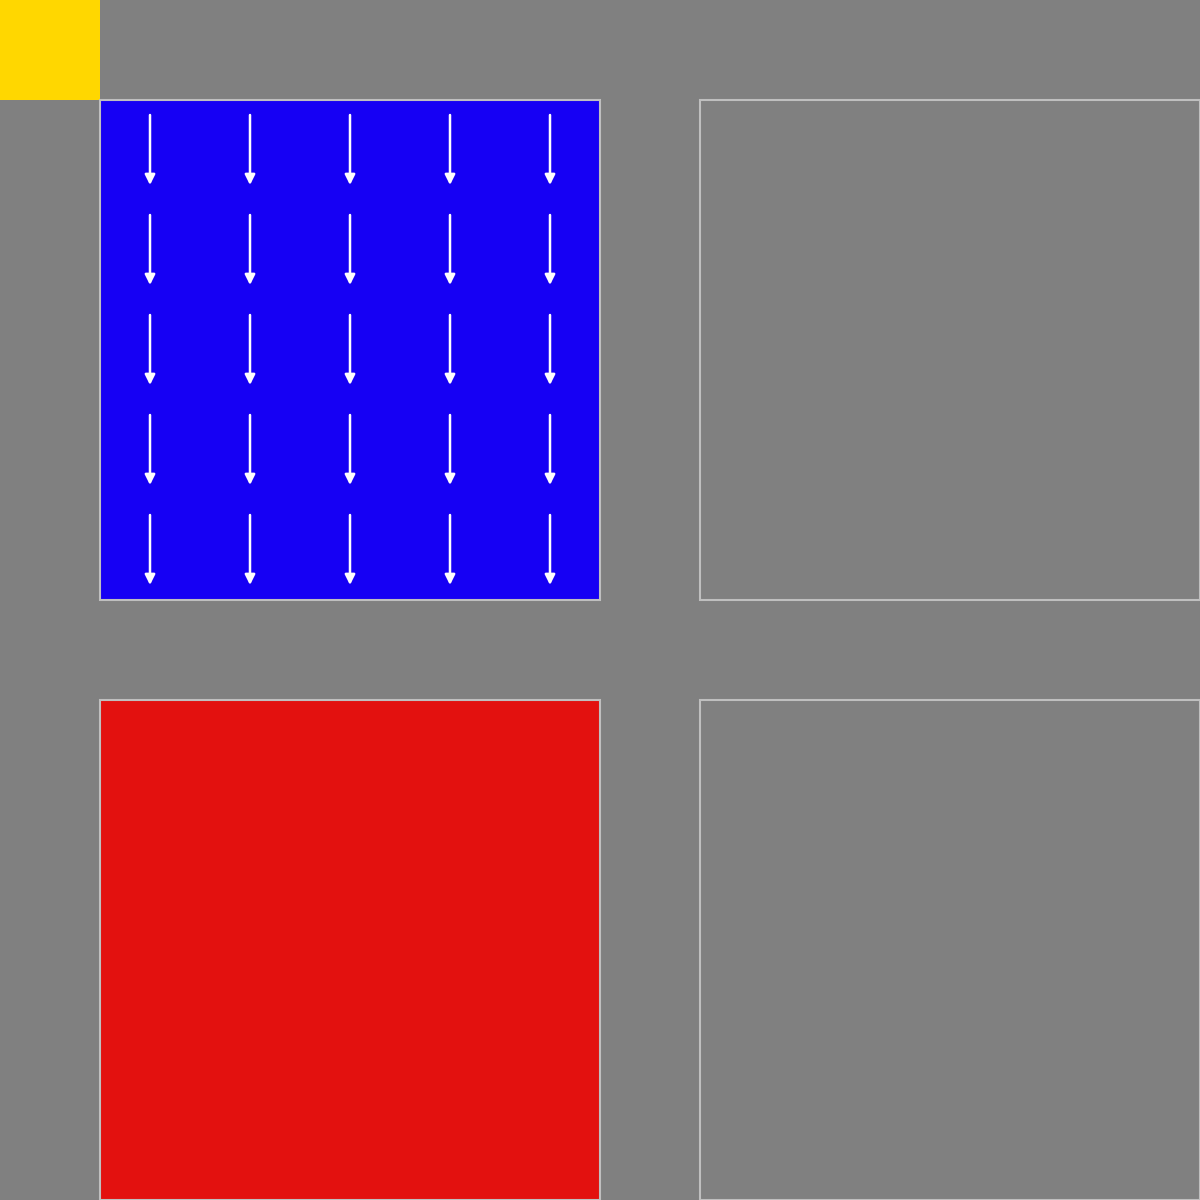
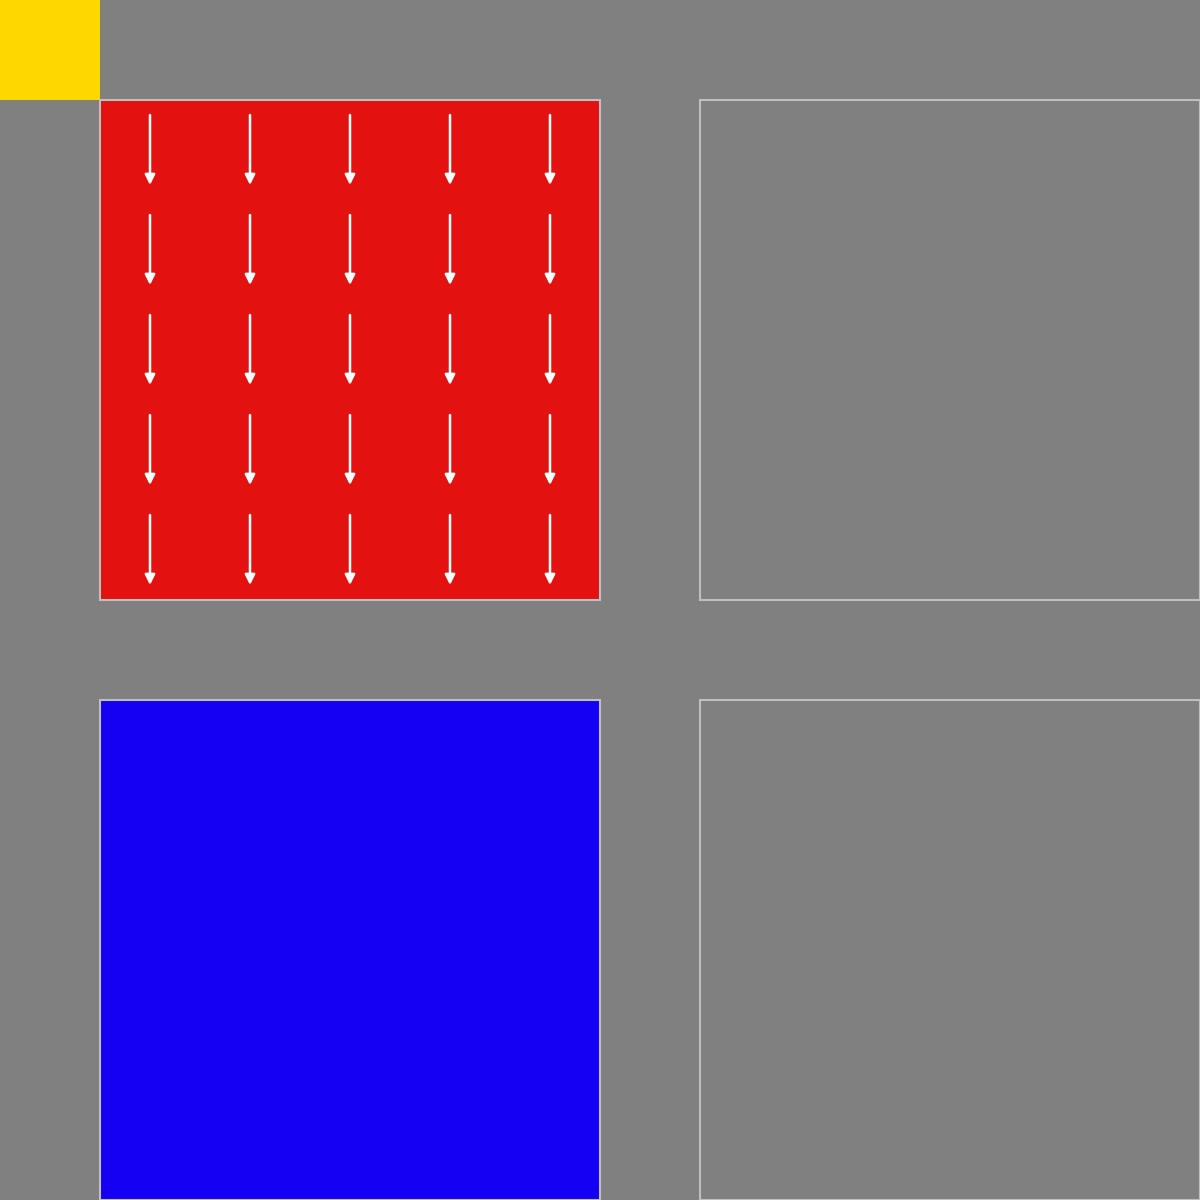
slides: E5 shuffle layouts, UD rouge / CD bleue

diff --git a/slides/out_e5_layouts/plot_e5_layouts.py b/slides/out_e5_layouts/plot_e5_layouts.py
@@ -21,6 +21,8 @@ cfg = setup.load_config(REPO / "configs/e4/e4.yaml")
 conf = setup.configuration(cfg, CONFIG)
 R, C = two_zones.GRID_SHAPE
 k, gl = cfg["render"]["k"], cfg["render"]["grid_lines"]
+# slide convention: colours swapped vs E5 (UD red, CD blue); dynamics untouched
+conf = {**conf, "t_inc": conf["t_ctrl"], "t_ctrl": conf["t_inc"]}
 canon = es.canonical_assignment(conf["diagonal"])
 rows = []
 
@@ -74,7 +76,7 @@ Script: `slides/out_e5_layouts/plot_e5_layouts.py`.
 """ + "\n".join(rows) + f"""
 
 - Canonical (E4 and probes): index {canon} (UD={es.ASSIGNMENTS[canon][0]}, CD={es.ASSIGNMENTS[canon][1]}).
-- RGB: T_inc / UD = {conf['t_inc']}, T_ctrl / CD = {conf['t_ctrl']}, neutral/corridor = {col[[q for q in es.QUADRANT_ORDER if q not in es.ASSIGNMENTS[canon]][0]]}.
+- RGB (swapped for the slide, UD red / CD blue; E5's own are the reverse): UD = {conf['t_inc']}, CD = {conf['t_ctrl']}, neutral/corridor = {col[[q for q in es.QUADRANT_ORDER if q not in es.ASSIGNMENTS[canon]][0]]}.
 - Goal: (row, col) = {two_zones.GOAL_RC}, state {two_zones.GOAL_STATE}, drawn as the render does (no agent marker).
 - Arrows: white, one per UD cell, from the cell towards its successor given by `env.transition_tensor().argmax(-1)` (same for every action, asserted), shortest signed step on the torus, drawn at the cell. Drift convention: `{two_zones.DIRECTION}`.
 - Gray outlines (0.75, lw 0.5) mark the 4 quadrants (the render does not distinguish the neutral ones from the corridor).

diff --git a/slides/out_e5_layouts/MANIFEST_e5_layouts.md b/slides/out_e5_layouts/MANIFEST_e5_layouts.md
@@ -19,7 +19,7 @@ Script: `slides/out_e5_layouts/plot_e5_layouts.py`.
 | 11 | sw | se | nw, ne | (-1, 0) |  |
 
 - Canonical (E4 and probes): index 1 (UD=nw, CD=se).
-- RGB: T_inc / UD = (22, 0, 244), T_ctrl / CD = (227, 17, 15), neutral/corridor = (128, 128, 128).
+- RGB (swapped for the slide, UD red / CD blue; E5's own are the reverse): UD = (227, 17, 15), CD = (22, 0, 244), neutral/corridor = (128, 128, 128).
 - Goal: (row, col) = (0, 0), state 0, drawn as the render does (no agent marker).
 - Arrows: white, one per UD cell, from the cell towards its successor given by `env.transition_tensor().argmax(-1)` (same for every action, asserted), shortest signed step on the torus, drawn at the cell. Drift convention: `away_from_goal`.
 - Gray outlines (0.75, lw 0.5) mark the 4 quadrants (the render does not distinguish the neutral ones from the corridor).
